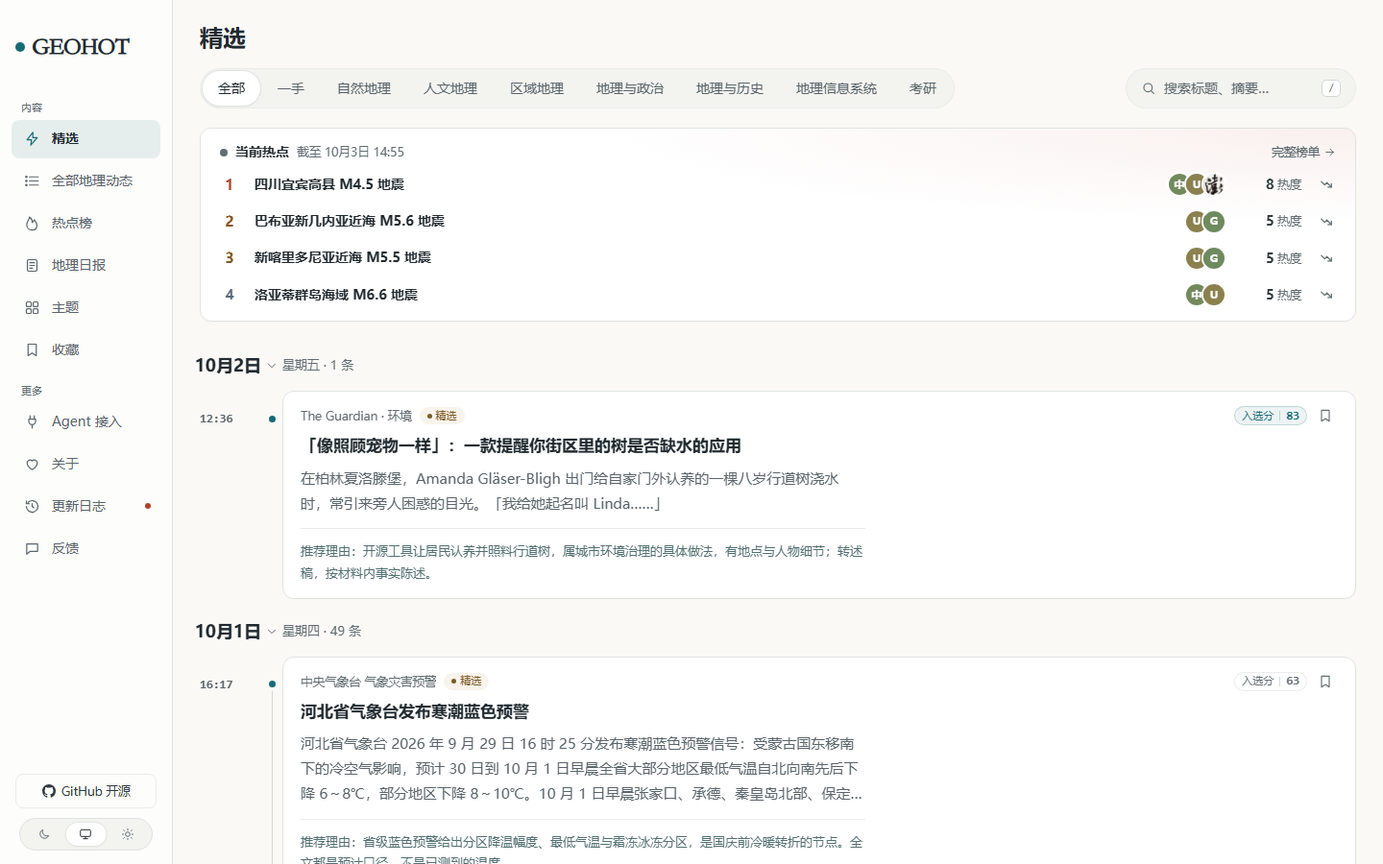
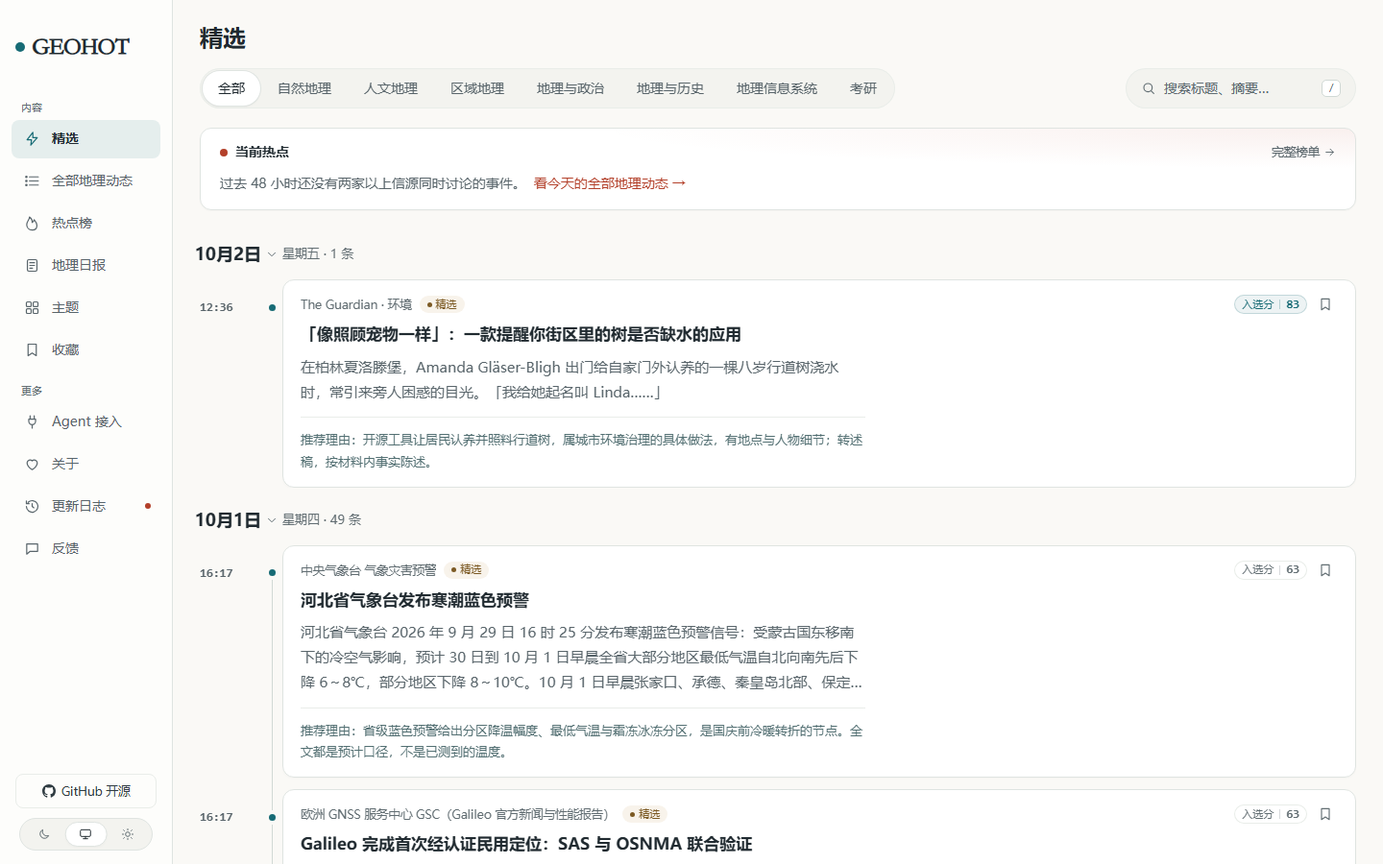
删掉筛选栏「一手」；信源 87 → 90；/hot 空态补出口；配图重拍

diff --git a/tests/channel-row.test.ts b/tests/channel-row.test.ts
@@ -1,0 +1,40 @@
+// The「一手」chip was removed from the filter row on 2026-10-04 晚 by the owner's request ("有点多余了").
+// What makes that removal worth a test at all is how little of it was visible: the chip, the enum key and the
+// SQL alias were three lines in three files, and both the chip list and the label table are derived — re-adding
+// one without the others either fails to compile (exhaustive `Record<ChannelKey, string>`) or brings back a
+// filter the owner asked to drop. The row must stay 全部 + the seven categories, and a link that still carries
+// `?channel=firstParty` must keep landing on the unfiltered list rather than a 400 or a half-lit row.
+import assert from "node:assert/strict";
+import { readFileSync } from "node:fs";
+import { test } from "node:test";
+import { CATEGORY_KEYS, CHANNEL_KEYS, CHANNEL_LABELS } from "@aihot/contracts/taxonomy";
+
+const read = (p: string) => readFileSync(new URL(p, import.meta.url), "utf8");
+const filters = read("../apps/web/app/features/feed/Filters.tsx");
+const home = read("../apps/web/app/routes/home.tsx");
+const all = read("../apps/web/app/routes/all.tsx");
+const timeline = read("../apps/web/app/features/feed/Timeline.tsx");
+const groupUrls = read("../apps/web/app/features/feed/group-urls.ts");
+
+test("筛选栏只有 全部 + 七个分类，chip 从 CATEGORY_KEYS 派生", () => {
+  // Comments here name the removed chip on purpose (that is how a reader learns why it is gone), so the
+  // assertions look at the chip list itself: a key or a label, not the word in prose.
+  assert.equal(/key:\s*"firstParty"|channel:\s*"firstParty"/.test(filters), false, "Filters.tsx 的 chip 清单里又出现了 firstParty：站长 2026-10-04 要求删掉「一手」那颗 chip，别把它加回来");
+  assert.equal(filters.includes('label: "一手"'), false, "Filters.tsx 里又挂出了「一手」这个标签");
+  assert.ok(filters.includes("...CATEGORY_KEYS.map("), "分类 chip 必须从 CATEGORY_KEYS 派生（手写清单就会漂）");
+  assert.equal(CATEGORY_KEYS.length, 7, `分类数变了（${CATEGORY_KEYS.length} 个）：筛选栏的断言与 README 的「八个格子」都要跟着改`);
+});
+
+test("一手不再是一个渠道 key，但老链接要把渠道兜底成 all", () => {
+  assert.equal((CHANNEL_KEYS as readonly string[]).includes("firstParty"), false, "firstParty 还在 CHANNEL_KEYS 里：它会让 isChannelKey 认出一个已经没人提供的渠道");
+  assert.equal(Object.keys(CHANNEL_LABELS).includes("firstParty"), false, "CHANNEL_LABELS 里还留着一手的标签");
+  // 兜底在两条路由上各写了一次：认不出的 channel 回落 all，而不是 400/404。
+  assert.match(home, /isChannelKey\(channelParam\) \? channelParam : "all"/, "home.tsx 的渠道兜底没了：老链接 ?channel=firstParty 会掉进未处理分支");
+  assert.match(all, /isChannelKey\(channelParam\) \? channelParam : "all"/, "all.tsx 的渠道兜底没了");
+});
+
+test("读者可见的链接与游标里不再生成 channel=firstParty", () => {
+  for (const [name, src] of [["Filters.tsx", filters], ["Timeline.tsx", timeline], ["group-urls.ts", groupUrls]] as const) {
+    assert.equal(/channel:\s*"firstParty"|set\("channel",\s*"firstParty"\)/.test(src), false, `${name} 里仍在拼一手渠道的参数`);
+  }
+});

diff --git a/apps/web/app/features/feed/Filters.tsx b/apps/web/app/features/feed/Filters.tsx
@@ -1,7 +1,7 @@
 // Feed filters: the channel and category row, and search.
 import { useEffect, useRef, useState } from "react";
 import { Form, Link, useNavigation, useSearchParams } from "react-router";
-import { CATEGORY_KEYS, CATEGORY_LABELS, CHANNEL_LABELS, type CategoryKey, type ChannelKey } from "@aihot/contracts/taxonomy";
+import { CATEGORY_KEYS, CATEGORY_LABELS, type CategoryKey, type ChannelKey } from "@aihot/contracts/taxonomy";
 import { IconClose, IconSearch } from "../../components/icons";
 import { PillTabs } from "../../components/ui/Tabs";
 import { publicPath } from "../../lib/public-path";
@@ -15,14 +15,19 @@ export function hrefWith(base: string, params: URLSearchParams, patch: Record<st
   }
   sp.delete("page");
   sp.delete("cursor");
+  // `search=1` is the one-shot flag that opens the phone's search field and focuses it (`all.tsx` reads it
+  // into `autoFocus`). A chip click is a new intent, not "open the keyboard again": carrying the flag made
+  // every category tap on a phone re-focus the search input and pop the keyboard (found in the browser pass).
+  sp.delete("search");
   const s = sp.toString();
   return s ? `${base}?${s}` : base;
 }
 
 /**
- * The feed's one filter row (精选 and 全部动态 alike): 全部, 一手, then the categories. One choice at a
- * time: picking 一手 clears the category and picking a category clears 一手. Older 资讯 / X links
- * still filter; the row then shows 全部.
+ * The feed's one filter row (精选 and 全部动态 alike): 全部, then the seven categories. One choice at a time.
+ * Older 资讯 / X links still filter; the row then shows 全部. The「一手」chip that used to sit between
+ * 全部 and the categories was removed on 2026-10-04 晚 by the owner's request — `firstParty` is gone from
+ * `CHANNEL_KEYS`, so a link still carrying it lands on the unfiltered list instead of a half-lit row.
  */
 export function CategoryTabs({ base, category, channel = "all", layoutId, size = "md", className = "" }: { base: string; category: CategoryKey | null; channel?: ChannelKey; layoutId: string; size?: "md" | "sm"; className?: string }) {
   const [params] = useSearchParams();
@@ -37,10 +42,11 @@ export function CategoryTabs({ base, category, channel = "all", layoutId, size =
   };
   const items = [
     { key: "all", label: "全部", ...at({ category: null, channel: null }) },
-    { key: "firstParty", label: CHANNEL_LABELS.firstParty, ...at({ category: null, channel: "firstParty" }) },
     ...CATEGORY_KEYS.map((k) => ({ key: k, label: CATEGORY_LABELS[k], ...at({ category: k, channel: null }) })),
   ];
-  const active = channel === "firstParty" ? "firstParty" : (category ?? "all");
+  // 全部 is the row's only neutral chip, so a legacy `?channel=news|x` link lights it while the list
+  // keeps filtering — the same "row cannot express this" case the removed 一手 chip used to cover.
+  const active = channel === "all" ? (category ?? "all") : "all";
   return <PillTabs items={items} active={active} layoutId={layoutId} label="筛选" size={size} className={className} />;
 }
 

diff --git a/packages/backend/src/publication/sitemap.ts b/packages/backend/src/publication/sitemap.ts
@@ -10,7 +10,7 @@ import { sql } from "../db.ts";
 import { cached } from "../lib/cache.ts";
 import { escapeXml } from "../lib/text.ts";
 import { siteUrl } from "./links.ts";
-import { releasedCondition, selectedCondition } from "./items.ts";
+import { CJK_TITLE_PATTERN, releasedCondition, selectedCondition } from "./items.ts";
 import { listReports } from "./reports.ts";
 import { leaderboardUrls } from "../leaderboard/read.ts";
 import { topicPageCounts } from "./topics.ts";
@@ -86,9 +86,12 @@ async function build(readAt = new Date()): Promise<string> {
     for (let p = 2; p <= t.pages; p++) entries.push({ loc: `/topics/${t.slug}/page/${p}`, lastmod: t.latest, changefreq: "weekly", priority: 0.3 });
   }
   // Stories with reports of their own; pages that only gather reports grouped elsewhere (imported story
-  // levels, regrouped history) are reachable but not listed.
+  // levels, regrouped history) are reachable but not listed. `title ~ CJK` narrows "listed" to what the site
+  // can hand a crawler in Chinese: 2026-10-04 晚 measured 474 English-only story pages, and the page gate for
+  // them was tried and reverted (see `events/story-reports.ts` and `docs/known-issues.md`) — a page may stay
+  // reachable, but this list is the one place that *promises* content to search engines.
   const stories = await sql<{ public_id: string; latest_at: Date | null }[]>`
-    SELECT public_id::text, latest_at FROM stories WHERE merged_into IS NULL AND EXISTS (
+    SELECT public_id::text, latest_at FROM stories WHERE merged_into IS NULL AND title ~ ${CJK_TITLE_PATTERN} AND EXISTS (
       SELECT 1 FROM facts f JOIN fact_articles fa ON fa.fact_id = f.id JOIN publications p ON p.article_id = fa.article_id
       WHERE f.story_id = stories.id AND fa.role IN ('primary', 'report') AND p.visibility = 'public' AND p.eligible)
     ORDER BY latest_at DESC NULLS LAST LIMIT 500`;

diff --git a/packages/backend/src/events/story-reports.ts b/packages/backend/src/events/story-reports.ts
@@ -14,9 +14,14 @@
 // past the release gate (one expression, `releasedCondition` in publication/items.ts — this file used to
 // retype it by hand, which is how a fourth reading of the same rule could appear). It deliberately does not
 // ask `p.eligible`: that is a snapshot of the pool rule taken when the row was published, so it also leaves
-// out reports the AI pool never rated — imported hot stories carry them, and the live pages showed them. No
-// Chinese-copy gate either: CJK decides whether an item is *listed* in a feed, not whether this page can open
-// it, which is what `rules.itemHasPage` already settled. Reports that mention this event from an article
+// out reports the AI pool never rated — imported hot stories carry them, and the live pages showed them.
+// **It does not ask for Chinese, and that is a decision, not an omission** (2026-10-04 晚: a gate was tried
+// and reverted the same evening). Measured then: 1374 public editorial reports and 474 event pages were
+// English-only. The site's copy rule keeps those out of every *list* — the feeds, the hot strip, the sitemap —
+// but it has never decided that their pages stop opening: `rules.itemHasPage` says a public released row has a
+// page, and `tests/publication.test.ts` pins that ("a story whose only page is unsummarised still has a page").
+// Gating here turned four such tests red, so the leak stays visible and is recorded in `docs/known-issues.md`
+// as an owner decision (404 the page, or keep it reachable-but-unlisted) instead of a silent change. Reports that mention this event from an article
 // about something else are included (an article's other events), and `hot_signal` material is heat evidence
 // only — its source does not take part editorially, so it is neither listed here nor shown on the page.
 import { sql } from "../db.ts";

diff --git a/apps/web/app/routes/hot.tsx b/apps/web/app/routes/hot.tsx
@@ -6,7 +6,7 @@ import { loadOr404 } from "../lib/api.server";
 import { pageMeta } from "../lib/seo";
 import { monthDayTime, shortSourceName } from "../lib/format";
 import { Badge } from "../components/ui/Badge";
-import { EmptyState } from "../components/ui/Page";
+import { EmptyState, MoreLink } from "../components/ui/Page";
 import { IconChevronDown, IconInfo } from "../components/icons";
 import { Sparkline } from "../features/hot/Sparkline";
 import { Faces } from "../features/hot/Faces";
@@ -260,7 +260,20 @@ export default function HotPage() {
 
       {!lead ? (
         <div className="card rounded-sheet">
-          <EmptyState title="暂时没有热点">还没有足够多来源共同讨论的事件。</EmptyState>
+          {/* An empty board is a state, not a dead end: the strip on the home page has always offered
+              「看今天的全部地理动态 →」, and this page — the one that strip links to — used to answer with
+              two sentences and zero links (found by a real-browser pass, 2026-10-04). */}
+          <EmptyState
+            title="暂时没有热点"
+            action={
+              <div className="flex flex-wrap items-center justify-center gap-x-5 gap-y-2">
+                <MoreLink to="/all">看今天的全部{withSubject("动态")}</MoreLink>
+                <MoreLink to="/daily">去最新一期{withSubject("日报")}</MoreLink>
+              </div>
+            }
+          >
+            还没有足够多来源共同讨论的事件。
+          </EmptyState>
         </div>
       ) : (
         <>

diff --git a/apps/web/app/routes/all.tsx b/apps/web/app/routes/all.tsx
@@ -34,7 +34,9 @@ export function meta({ loaderData }: Route.MetaArgs) {
   const q = f?.q;
   const page = loaderData?.data.page ?? 1;
   return pageMeta({
-    title: q ? `搜索：${q}` : `全部${withSubject("动态")}`,
+    // The <h1> says `#tag` when a tag filtered the list (line 74); the tab title did not, so a tag page
+    // announced itself as 「全部地理动态」 to tabs and search engines alike (real-browser pass, 2026-10-04).
+    title: q ? `搜索“${q}”` : f?.tag ? `#${f.tag}` : `全部${withSubject("动态")}`,
     description: `${SITE.name} 收录的全部${withSubject("动态")}，可按类别与标签筛选，支持中英文搜索。`,
     path: listPath("/all", { channel: f && f.channel !== "all" ? f.channel : null, category: f?.category, tag: f?.tag, q, tab: f?.tab === "relevance" ? "relevance" : null, page: page > 1 ? page : null }),
     image: "/og/pages/all.png",
@@ -63,7 +65,7 @@ export default function AllPage() {
   const navigation = useNavigation();
   const f = data.filters;
   const busy = navigation.state === "loading" && navigation.location?.pathname === "/all";
-  const keep = { channel: f.channel === "all" ? null : f.channel, category: f.category };
+  const keep = { channel: f.channel === "all" ? null : f.channel, category: f.category, tag: f.tag };
   const searchTabHref = (tab: "time" | "relevance") => {
     const sp = new URLSearchParams(params);
     sp.delete("page");

diff --git a/packages/backend/src/publication/groups.ts b/packages/backend/src/publication/groups.ts
@@ -6,7 +6,7 @@ import { sql } from "../db.ts";
 import { decodeCursor, encodeCursor, InvalidCursorError, queryBinding } from "../lib/cursor.ts";
 import { shortHash } from "../lib/ids.ts";
 import { proxiedImage } from "../media/imgproxy.ts";
-import { ITEM_COLUMNS, ITEM_FROM, categoryCondition, channelCondition, releasedCondition, selectedCondition, tagCondition, toItemSummary, topicCondition, type ItemRow } from "./items.ts";
+import { ITEM_COLUMNS, ITEM_FROM, categoryCondition, channelCondition, chineseCopyCondition, releasedCondition, selectedCondition, tagCondition, toItemSummary, topicCondition, type ItemRow } from "./items.ts";
 import { pickRepresentative } from "./timeline.ts";
 
 export interface GroupReportsQuery {
@@ -40,7 +40,7 @@ export async function loadGroupReports(q: GroupReportsQuery, now = new Date()): 
            s.id AS source_id, s.name AS source_name, s.kind AS source_kind, p.first_party, s.icon_url
     FROM publications p JOIN sources s ON s.id = p.source_id
     WHERE p.article_id IN (SELECT article_id FROM fact_articles WHERE fact_id = ${fact.id}) AND p.visibility = 'public' AND p.eligible
-      AND ${releasedCondition(now)} ${filters}
+      AND ${releasedCondition(now)} AND ${chineseCopyCondition()} ${filters}
     ORDER BY p.timeline_at DESC, p.article_id ASC`;
   if (members.length === 0) return { kind: "not_found" };
 

diff --git a/packages/contracts/src/taxonomy.ts b/packages/contracts/src/taxonomy.ts
@@ -20,14 +20,18 @@ export function isCategoryKey(value: unknown): value is CategoryKey {
   return typeof value === "string" && (CATEGORY_KEYS as readonly string[]).includes(value);
 }
 
-export const CHANNEL_KEYS = ["all", "news", "x", "firstParty"] as const;
+export const CHANNEL_KEYS = ["all", "news", "x"] as const;
 export type ChannelKey = (typeof CHANNEL_KEYS)[number];
 
+// `firstParty` was a channel key until 2026-10-04 晚: the owner asked for the「一手」chip to go ("有点多余了"),
+// and the row now renders 全部 + the seven categories only. The key is deliberately *removed* rather than just
+// hidden: the filter row derives its chips from this list, and a key nothing offers is a key nothing can be
+// tested against. Old links carrying `?channel=firstParty` land on the unfiltered list (the routes coerce an
+// unrecognised channel to "all", `isChannelKey` above) — those pages stay reachable, they just stop filtering.
 export const CHANNEL_LABELS: Record<ChannelKey, string> = {
   all: "全部",
   news: "资讯",
   x: "X",
-  firstParty: "一手",
 };
 
 export function isChannelKey(value: unknown): value is ChannelKey {

diff --git a/apps/web/app/routes/leaderboard.tsx b/apps/web/app/routes/leaderboard.tsx
@@ -25,7 +25,7 @@ export function meta({ loaderData }: Route.MetaArgs) {
   return pageMeta({
     title: board.title,
     rawTitle: true,
-    description: board.key === "overall" ? "汇总多家公开模型评测榜单，给出${SITE.name} 共识分、评测完整度、上线日期与 API 参考价格。" : board.description,
+    description: board.key === "overall" ? `汇总多家公开模型评测榜单，给出${SITE.name} 共识分、评测完整度、上线日期与 API 参考价格。` : board.description,
     path,
     image: "/og/pages/leaderboard.png",
     jsonLd: [

diff --git a/packages/backend/src/publication/items.ts b/packages/backend/src/publication/items.ts
@@ -118,7 +118,6 @@ export function selectedCondition(now: Date) {
 
 export function channelCondition(channel: ChannelKey | null | undefined) {
   if (!channel || channel === "all") return sql``;
-  if (channel === "firstParty") return sql`AND p.first_party`;
   return sql`AND p.channel = ${channel}`;
 }
 

diff --git a/README.md b/README.md
@@ -31,7 +31,7 @@
 
 <br>
 
-> 这一页是介绍页。**操作手册**（本机跑法、端口对照、检查命令、已知边界、上线前清单）在 [`docs/manual.md`](docs/manual.md)——它就是这棵树原来的 README，内容一字未删地搬了过去。日常运营读 [`docs/geohot-runbook.md`](docs/geohot-runbook.md)，精选与校准读 [`docs/selection.md`](docs/selection.md)，换行业读 [`docs/customize.md`](docs/customize.md)，信源怎么配读 [`docs/sources.md`](docs/sources.md)，部署读 [`docs/deploy.md`](docs/deploy.md)，**换域名或换服务器**读 [`docs/migration.md`](docs/migration.md)，进程与目录读 [`docs/architecture.md`](docs/architecture.md)。这份清单里只有 `README.md`、`docs/manual.md`、`docs/geohot-runbook.md`、`docs/migration.md` 与 `docs/known-issues.md`（下面引用了它四次的那份待办清单，按轮次追记）是本站写的，其余（`customize/selection/sources/architecture/leaderboard/deploy`）都还是上游参考文档，若干命令与数字在本站不成立——**哪份文档该打折、逐条打到什么程度，看 [`docs/manual.md` 第 9 节那张"文档 × 状态"表](docs/manual.md)**（那张表是本仓库的反腐烂装置：它按文档逐条写明哪些说法已经不成立、哪些只是抄录）。
+> 这一页是介绍页。**操作手册**（本机跑法、端口对照、检查命令、已知边界、上线前清单）在 [`docs/manual.md`](docs/manual.md)——它就是这棵树原来的 README，内容一字未删地搬了过去。日常运营读 [`docs/geohot-runbook.md`](docs/geohot-runbook.md)，精选与校准读 [`docs/selection.md`](docs/selection.md)，换行业读 [`docs/customize.md`](docs/customize.md)，信源怎么配读 [`docs/sources.md`](docs/sources.md)，部署读 [`docs/deploy.md`](docs/deploy.md)，**换域名或换服务器**读 [`docs/migration.md`](docs/migration.md)，进程与目录读 [`docs/architecture.md`](docs/architecture.md)。这份清单里只有 `README.md`、`docs/manual.md`、`docs/geohot-runbook.md`、`docs/migration.md` 与 `docs/known-issues.md`（那份按轮次追记的待办清单，下面多次引用）是本站写的，其余（`customize/selection/sources/architecture/leaderboard/deploy`）都还是上游参考文档，若干命令与数字在本站不成立——**哪份文档该打折、逐条打到什么程度，看 [`docs/manual.md` 第 9 节那张"文档 × 状态"表](docs/manual.md)**（那张表是本仓库的反腐烂装置：它按文档逐条写明哪些说法已经不成立、哪些只是抄录）。
 
 </div>
 
@@ -41,7 +41,7 @@
   <img src="docs/shots/home-light.png" alt="首页精选：顶部是「当前热点」四条（名次、标题、信源头像、热度与走势），左侧导航，筛选栏含七个分类，下面是按日期分组的精选卡片" width="100%">
 </p>
 
-▲ 首页「精选」· 截图摄于 **2026-10-04 14:07（+0800）**，路由 `/geohot/`，视口 1440×900，浅色主题 · 画面顶部那一块是**当前热点**：四条事件按热度排开，每行是名次、标题、正在讨论它的信源头像（精选组，最多三枚 +N）、热度数值与走势箭头，右上角「完整榜单」进 `/hot`。标题旁边写着 **截至 10月3日 14:55**——这一张榜不是这一小时的。热榜每 5 分钟重算一次，某一轮算出空榜时不再把首页抹掉：`packages/backend/src/events/hot.ts` 只在有事件时把那一张发布出去，读侧 `packages/backend/src/events/hot-read.ts` 于是回落到最近一张有事件的榜（最长 24 小时），其中事件已被归并到别处的条目先掉出榜、名次接着排。榜不老于两小时时这里不写时刻，只有一颗跳动的红点。**如果打开首页看到的是另一行字**——「过去 48 小时还没有两家以上信源同时讨论的事件。」加一个 `/all` 入口——那不是故障，是这张榜已经老过一天，页面改说实话；两种样子的取舍写在 `apps/web/app/features/feed/HotTopics.tsx` 顶部的注释里。侧栏**没有**「板块」那一格：那一层 2026-10-04 整块删除，`/geohot/boards` 现在返回 404。时间线是 10月2日 1 条、10月1日 49 条，第一条是 The Guardian·环境、入选分 83 的《「像照顾宠物一样」：一款提醒你街区里的树是否缺水的应用》。筛选栏 **9 格**：`全部`、`一手`，加**七个分类**，末尾两格是「地理信息系统」「考研」——2026-10-03 把这两格换位、并删掉了「野外与考察」与「观点与解读」。（这一张图的上一版说明把"画面里没有当前热点条"归因于"热点榜是空的"，那时真正的原因是旧代码在榜少于 3 条时把整块隐藏——归因错了，错记留在 `docs/known-issues.md`，不抹掉。）**这一屏每天在变，线上地址才是事实来源**：`https://xxc2007.me/geohot/`。
+▲ 首页「精选」· 截图摄于 **2026-10-04 22:08（+0800）**，路由 `/geohot/`，视口 1440×900，浅色主题 · 画面顶部那一块是**当前热点**：四条事件按热度排开，每行是名次、标题、正在讨论它的信源头像（精选组，最多三枚 +N）、热度数值与走势箭头，右上角「完整榜单」进 `/hot`。标题旁边写着 **截至 10月3日 14:55**——这一张榜不是这一小时的。热榜每 5 分钟重算一次，某一轮算出空榜时不再把首页抹掉：`packages/backend/src/events/hot.ts` 只在有事件时把那一张发布出去，读侧 `packages/backend/src/events/hot-read.ts` 于是回落到最近一张有事件的榜（最长 24 小时），其中事件已被归并到别处的条目先掉出榜、名次接着排。榜不老于两小时时这里不写时刻，只有一颗跳动的红点。**如果打开首页看到的是另一行字**——「过去 48 小时还没有两家以上信源同时讨论的事件。」加一个 `/all` 入口——那不是故障，是这张榜已经老过一天，页面改说实话；两种样子的取舍写在 `apps/web/app/features/feed/HotTopics.tsx` 顶部的注释里。侧栏**没有**「板块」那一格：那一层 2026-10-04 整块删除，`/geohot/boards` 现在返回 404。时间线是 10月2日 1 条、10月1日 49 条，第一条是 The Guardian·环境、入选分 83 的《「像照顾宠物一样」：一款提醒你街区里的树是否缺水的应用》。筛选栏 **8 格**：`全部` 加**七个分类**，末尾两格是「地理信息系统」「考研」——2026-10-03 把这两格换位、并删掉了「野外与考察」与「观点与解读」；2026-10-04 晚又删掉 `一手` 那一格（它是 `first_party` 数据字段的渠道别名，和「全部 + 分类」这一行做的是同一件事；`first_party` 字段本身照旧在评分、日报「件一手发布」与事件页「官方一手」里用着）。（这一张图的上一版说明把"画面里没有当前热点条"归因于"热点榜是空的"，那时真正的原因是旧代码在榜少于 3 条时把整块隐藏——归因错了，错记留在 `docs/known-issues.md`，不抹掉。）**这一屏每天在变，线上地址才是事实来源**：`https://xxc2007.me/geohot/`。
 
 ---
 
@@ -63,7 +63,7 @@
 
 > 2026-10-03 一天里改了两次，都是站长看首页筛选栏提出的。**先是合并**：「地理信息技术」与「地理信息系统」并成一个区域，名字用「地理信息系统」，分类 `key` 保留 `geotech`——它已经在网址与库里，词表头部写着上线后不可改；另一个 key `gis` 只活了几个小时，名下的行由迁移 `0040` 并到 `geotech`。**接着是删两个分类**：`fieldwork` 野外与考察、`comment` 观点与解读**彻底删掉**，不是改名也不是隐藏——筛选栏、卡片角标、日报分节、RSS 分类订阅、公开 API 与 MCP 的枚举、提示词里的分类清单一起消失。这两个 key 名下的行（线上 21 行，其中精选 8 条）由迁移 `0041` 逐条改归到剩下的五个学科分类，`selectbench_results` 那张基准表**不动**——它是历史模型的答题存档，改写等于伪造记录。
 >
-> 删掉的两个分类原本共用日报的第三节「实践」。**这一节的消失有个不显眼的后果**：日报的分节表是从分类数组里 `section` 字段的**首现顺序**推导的，而「没有类别的资料」的兜底分节取的是末位那一节。`section` 从「学科 / 技术 / 实践」变成「学科 / 技术」，兜底分节因此从「实践」挪到「技术」。这不是可以随手改的装饰——给新分类起第三个节名，全站没有类别的资料会在下一次成刊时一夜之间搬进那一节。这条不变量由 `tests/report-default-section.test.ts` 与 `tests/exit-category-parity.test.ts` 两处钉住。
+> 删掉的两个分类原本共用日报的第三节「实践」。**兜底分节从那一节挪到了「未归类」**：没有类别的资料进日报时落在 `DEFAULT_SECTION` 这一节，它是 `packages/backend/src/reports/compose.ts:26` 的一个显式常量（`:28` 的 `REPORT_SECTIONS = [...SECTION_ORDER, DEFAULT_SECTION]`），不是"分类数组的末位"——早先的版本按末位推导，删一次分类就会把全站没归类的资料整体搬到别的一节去。这条不变量由 `tests/report-default-section.test.ts` 与 `tests/exit-category-parity.test.ts` 两处钉住。
 
 **没有单独的「板块」页。** 这一层曾经存在过：2026-10-03 上线的四个跨类别方向页（`/boards`：地理信息系统 / 考研 / 地理与政治 / 地理与历史，当时与筛选栏同序）在 **2026-10-04 按站长要求整块删掉**——站长看着那一页说「这个板块功能有点重复了」，它按学科与用途把条目归到一处（页面文案当时写的是"当天"，而它其实不设时间窗——按时间倒序取最近的若干条），而主题页与筛选栏的分类已经在做同一件事。现在 `/boards` 与 `/boards/<slug>` 都是 404。四个方向**没有丢入口**：它们本来就是首页筛选栏里的四个分类（`/all?category=geotech` / `geoedu` / `geopolitics` / `histgeo`），未精选的信源原文在「全部动态」里同样列得出来；主题页（`/topics`）继续按区域、机构与领域串联同一件事的来龙去脉。**删的只是视图**——条目、`category` 字段、分类词表与公开门槛一行都没动，`industry/sources.json` 里那 41 条 `defaultCategory` 照旧把条目归到它所属的分类。
 
@@ -106,7 +106,7 @@
 
 精选按分类的**分布不在这里抄**——那是线上每天在变的量（上一版抄的"53 条：自然地理 28 · 区域地理 12 · 人文地理 6 · 地理信息系统 5 + 2 条无分类"恰好在 2026-10-04 13:35 又对了回来，但那是巧合不是维护，靠抄录追一个会动的数是追不住的）。现查：`curl -s "https://xxc2007.me/geohot/api/v1/selected/snapshot?limit=200"` 按 `items[].category` 数一遍，它应与 `/api/site/stats` 的 `selected` 相等（2026-10-04 实测两边都是 53；不一致就是出口之间又裂开了，见下面「站点结构」那一节讲的同一份门槛）。**删掉的两类名下的行没有消失**，是按内容逐条改归到剩下的分类里——迁移 `0041` 的映射表把每条都写明了理由，不是一刀切进某个桶；`fieldwork` 与 `comment` 这两个 key 现在库里一行都不剩（`SELECT category, count(*) FROM publications GROUP BY category` 可查，本机开发库实测只剩**六个** key 与 NULL——七个分类里的 `geoedu` 在库里一行都没有，`GROUP BY` 不会把零行的那一档列出来，所以"七个 key"是数词表不是数查询结果）。
 
-**信源数量的唯一说法在这里**（其余文档一律指向本段，别再抄一份数字）：登记在 [`industry/sources.json`](industry/sources.json) 的是 **87 条**（`node -e "console.log(require('./industry/sources.json').sources.length)"` 当场可数；2026-10-04 下午从 85 加到 87——中新网·即时新闻与 BBC 中文（简体），两家都是在采集那台机器上用采集器自己的 UA 实测过、第一次抓取各入库 30 条才算数。同一批还试过人民网·时政/国际/科技三个 RSS，**又退回了**：feed 本身活着（200、`text/xml`、各 100 个 `<item>`），可里面最新一条分别是 2025-06-03 / 2025-06-04 / 2021-02-01——那是一个不再更新的快照，"200 加 100 条"骗过了探测，是第一次抓取入库 0 条才把它暴露出来），本机库里 `sources` 表是 **88 行**——多出的那一行是投递接口在运维校验时自动建的 `external` 占位源 `ext-opscheck-ingest-probe`（站上不可见，清理 SQL 在 `scripts/README-ingest.md` 末尾），所以顶上那枚徽标写「87+1」。这 87 条里 **79 条真在轮询**（53 `rss` + 23 `web_list` + 3 `json_list`）、**8 条 `external`** 是给人工投递预留的通道（`participation_mode=isolated`，站上暂不可见）。轮询那 79 条按分级是 `T1` 46 / `T1_5` 14 / `T2` 19，按语种是中文 26 / 英文 53，其中 **50 条标了 `first_party`**（自己就是发布方，不是转述别家），中文一手层 20 条。可轮询的来源横跨中英两种语言与机构、媒体、期刊、软件发布四类：国际机构（USGS、NASA Science、NOAA、GDACS、UN OCHA、Copernicus、WMO、ESA）× 国际媒体与智库（The Diplomat、World Politics Review、Foreign Affairs、Crisis Group、对话地球、The Conversation）× 软件与标准（OGC、QGIS releases）× 历史与地图（国会图书馆地图部、Public Domain Review、欧洲环境史学会）× 国内部委与科研院所 20 条（中国地震台网中心、中央气象台、国家气候中心、国家统计局、自然资源部、中国地质调查局、生态环境部、国家林业和草原局、中国地震局、应急管理部、水利部本部及黄河/长江水利委员会、中科院地理科学与资源研究所两条、中国极地研究中心、澎湃新闻、《地理研究》当期目录等）。本站没有任何 `x_search`/`mp_account`/按次计费的信源（现值 0 条），采集不产生账单。**87 条里 43 条声明了 `defaultCategory`**，把条目直接归到它所属的分类（见上）；其余按模型/人工判断归类。
+**信源数量的唯一说法在这里**（其余文档一律指向本段，别再抄一份数字）：登记在 [`industry/sources.json`](industry/sources.json) 的是 **90 条**（`node -e "console.log(require('./industry/sources.json').sources.length)"` 当场可数；2026-10-04 下午从 85 加到 87——中新网·即时新闻与 BBC 中文（简体），两家都是在采集那台机器上用采集器自己的 UA 实测过、第一次抓取各入库 30 条才算数。当晚又从 87 加到 90，三条都是中文 `web_list`：**教育部·新闻发布**（分类「考研」，那一类此前只有一条源）、**中国科技网（科技日报）要闻**、**国家发展改革委·新闻动态**——每条都在部署后用 `scripts/collect.ts` 在生产库真抓过（首次入库 15 / 15 / 20 条）。同一批试过的**地理学报·当期目录**又退回了：本机能抓（15 条）、**采集器那台机器两次都 `fetch failed`**，接不进生产就不是信源；它原先的人工投递通道（`ext-acta-geographica-toc`）原样留着。同一批还试过人民网·时政/国际/科技三个 RSS，**又退回了**：feed 本身活着（200、`text/xml`、各 100 个 `<item>`），可里面最新一条分别是 2025-06-03 / 2025-06-04 / 2021-02-01——那是一个不再更新的快照，"200 加 100 条"骗过了探测，是第一次抓取入库 0 条才把它暴露出来），本机库里 `sources` 表是 **91 行**——多出的那一行是投递接口在运维校验时自动建的 `external` 占位源 `ext-opscheck-ingest-probe`（站上不可见，清理 SQL 在 `scripts/README-ingest.md` 末尾），所以顶上那枚徽标写「90+1」。这 90 条里 **82 条真在轮询**（53 `rss` + 26 `web_list` + 3 `json_list`）、**8 条 `external`** 是给人工投递预留的通道（`participation_mode=isolated`，站上暂不可见）。轮询那 82 条按分级是 `T1` 48 / `T1_5` 15 / `T2` 19，按语种是中文 29 / 英文 53，其中 **53 条标了 `first_party`**（自己就是发布方，不是转述别家），中文一手层 23 条。可轮询的来源横跨中英两种语言与机构、媒体、期刊、软件发布四类：国际机构（USGS、NASA Science、NOAA、GDACS、UN OCHA、Copernicus、WMO、ESA）× 国际媒体与智库（The Diplomat、World Politics Review、Foreign Affairs、Crisis Group、对话地球、The Conversation）× 软件与标准（OGC、QGIS releases）× 历史与地图（国会图书馆地图部、Public Domain Review、欧洲环境史学会）× 国内部委与科研院所 20 条（中国地震台网中心、中央气象台、国家气候中心、国家统计局、自然资源部、中国地质调查局、生态环境部、国家林业和草原局、中国地震局、应急管理部、水利部本部及黄河/长江水利委员会、中科院地理科学与资源研究所两条、中国极地研究中心、澎湃新闻、《地理研究》当期目录等）。本站没有任何 `x_search`/`mp_account`/按次计费的信源（现值 0 条），采集不产生账单。**90 条里 46 条声明了 `defaultCategory`**，把条目直接归到它所属的分类（见上）；其余按模型/人工判断归类。
 
 **已部署**：[`xxc2007.me/geohot/`](https://xxc2007.me/geohot/)（2026-10-01）。四个常驻单元只监听回环、各自带内存上限，装在同一台跑着主站与 Artalk 的机器上，主站首页逐字节未变（`51432` 字节 / `4edf0fc53636a680…`，2026-10-03 又用 `curl -s https://xxc2007.me/ | wc -c` 与 `sha256sum` 复核过一遍）。怎么装的、验证命令、以及部署时踩过的坑（那张「症状 → 真正原因」表），都在 [`deploy/geohot/DEPLOYMENT.md`](deploy/geohot/DEPLOYMENT.md)。**日报已出刊**：`/daily` 给的是**最新一期**（这一句不写期号与日期，每天 08:00 它都会变），下面那张图拍的是 **2026-10-03 第 2 期**（`/daily/2026-10-03`，与那张图自己的说明同一期——上一版这里写成"2026-10-02 第 1 期"，与图说明对不上，同一张图给了两期）。另一期 `/daily/2026-10-02` 是 2026-10-02 第 1 期，线上现查的报眼五个指标是 **21 件大事、14 个来源、12 件一手发布、5 项技术与数据发布、约 9 分钟读完**（2026-10-04 实测 `curl -s https://xxc2007.me/geohot/daily/2026-10-02` 去标签即得；上一版这里写的"约 10 分钟"是错的，还漏了"技术与数据发布"那一格）——这些数字属于那一期，不属于"今天"。上线首日（10-01）`/daily` 确实是诚实的空态——worker 在当天 08:00 档期之后才起，那份日报本来就属于第二天，原因与空刊怎么被读取层过滤，写在 [`docs/known-issues.md`](docs/known-issues.md)。
 
@@ -116,12 +116,12 @@
   <img src="docs/shots/hot-light.png" alt="地理热点榜满榜的样子：NO.01 大卡带事件正文、最新进展与热度指数，右侧两张小卡各带 24 小时走势，页头同一行写着「过去 48 小时，讨论最多的 4 个地理事件」与更新时间" width="100%">
 </p>
 
-▲ 热点榜 `/hot` · 截图摄于 **2026-10-04 14:07（+0800）**，路由 `/geohot/hot`，视口 1440×900，浅色主题 · 画面里是**满榜**的样子：页头「过去 48 小时，讨论最多的 4 个地理事件」，同一行右边写着 **10月3日 14:55 更新 · 按讨论热度排序**——这一张榜不是这一小时算的，那行时刻就是它的截止时间（读侧最长保留 24 小时，超过就换成空态，与首页那张是同一张榜）。NO.01 是四川宜宾高县 M4.5 地震：三方测定读数不齐的正文、一行「最新进展」、「中国地震台网中心 CENC 地震速报目录、USGS 全球地震目录 M4.5+（近一周）等 3 个来源 · 3 位参与者」、热度指数 8 与 ↓15%；NO.02、NO.03 两张小卡各带 24 小时走势（2 个来源 · 2 位参与者），「继续看 No.04–04」下面是第 4 条洛亚蒂群岛海域 M6.6 地震，页脚有「热度是怎么算的？」入口。**热度门槛**：48 小时窗口内至少两个独立参与方、其中至少一家是编辑类信源（四个参数写在 `packages/backend/src/events/hot.ts`），达不到就是空榜。2026-10-03 上线当晚线上实测：窗口内 2639 个事件只有 24 个参与方，几乎每条预警各自成一个单来源事件；往前 48–96 小时那个窗口里有 6 个合格事件，所以榜更早的时候是满的（原始记录在 [`docs/known-issues.md`](docs/known-issues.md) 第八轮第 5 条）。**别拿本机复现那些数**：本机开发库的收录材料比线上少一半以上，按同一窗口口径复算对不上属正常。榜单每 5 分钟重排，**这一屏以线上为准**：`https://xxc2007.me/geohot/hot`（或 `GET /api/v1/hot-topics`）。
+▲ 热点榜 `/hot` · 截图摄于 **2026-10-04 22:08（+0800）**，路由 `/geohot/hot`，视口 1440×900，浅色主题 · 画面里是**满榜**的样子：页头「过去 48 小时，讨论最多的 4 个地理事件」，同一行右边写着 **10月3日 14:55 更新 · 按讨论热度排序**——这一张榜不是这一小时算的，那行时刻就是它的截止时间（读侧最长保留 24 小时，超过就换成空态，与首页那张是同一张榜）。NO.01 是四川宜宾高县 M4.5 地震：三方测定读数不齐的正文、一行「最新进展」、「中国地震台网中心 CENC 地震速报目录、USGS 全球地震目录 M4.5+（近一周）等 3 个来源 · 3 位参与者」、热度指数 8 与 ↓15%；NO.02、NO.03 两张小卡各带 24 小时走势（2 个来源 · 2 位参与者），「继续看 No.04–04」下面是第 4 条洛亚蒂群岛海域 M6.6 地震，页脚有「热度是怎么算的？」入口。**热度门槛**：48 小时窗口内至少两个独立参与方、其中至少一家是编辑类信源（四个参数写在 `packages/backend/src/events/hot.ts`），达不到就是空榜。2026-10-03 上线当晚线上实测：窗口内 2639 个事件只有 24 个参与方，几乎每条预警各自成一个单来源事件；往前 48–96 小时那个窗口里有 6 个合格事件，所以榜更早的时候是满的（原始记录在 [`docs/known-issues.md`](docs/known-issues.md) 第八轮第 5 条）。**别拿本机复现那些数**：本机开发库的收录材料比线上少一半以上，按同一窗口口径复算对不上属正常。榜单每 5 分钟重排，**这一屏以线上为准**：`https://xxc2007.me/geohot/hot`（或 `GET /api/v1/hot-topics`）。
 <p align="center">
   <img src="docs/shots/daily-light.png" alt="地理日报头版（2026-10-03 第 2 期）：报头字、期号卡、导读与分节正文" width="100%">
 </p>
 
-▲ `/daily` · 截图摄于 **2026-10-04 14:07（+0800）**，视口 1440×900，浅色主题；拍的是**那一刻的最新一期**（`/daily` 每天都换，这一版是 **2026-10-03 第 2 期**，固定地址 `/daily/2026-10-03`，左侧「往期」里 10月3日 高亮）。这一期 **1 件大事、1 个来源、0 件一手发布，约 1 分钟读完**，头条是《「像照顾宠物一样」：一款提醒你街区里的树是否缺水的应用》，本期版面只有一节：**实践**，1 件——这一节是 2026-10-03 删除两个分类之前成的刊，日报分节名是**写死的历史快照**，不随词表回改（这一期唯一那条资料在库里没有分类，旧词表下按兜底分节落进「实践」；新刊不会再出现这一节）。顺便说清一件事，**并且写清是哪一边的库**：线上那期 **10-04 的日报确实生成了，但一个分节都没有**，读取层会跳过没有内容的期，所以当天 `/daily` 回落到 10-03。这一条当场可查：`curl -s -o /dev/null -w '%{http_code}' https://xxc2007.me/geohot/daily/2026-10-04` → **200**，页面上写着「本期没有入选内容」（指名一期空刊给 200 的空态而不是 404，是既有决定，记在 [`docs/known-issues.md`](docs/known-issues.md)），而 `/api/site/stats` 的 `dailies` 是 10、`GET /api/v1/dailies` 只列 2 期——差的就被这道过滤挡着。**本机库不是这样**：那里到 10-03 为止只有 4 份日报，没有 10-04 这一行（`SELECT key, jsonb_array_length(content->'sections') FROM reports WHERE kind='daily'` → 3/1/1/1）。报头字「地理日报」是本站自己生成的 SVG（`scripts/nameplates.ts` 按 `SITE.subject` 出图）。这张图的侧栏与首页那张一样，已经没有「板块」那一格（那一层 2026-10-04 整块删除）。**最新一期每天都换，线上才是事实来源**：`https://xxc2007.me/geohot/daily`。
+▲ `/daily` · 截图摄于 **2026-10-04 22:08（+0800）**，视口 1440×900，浅色主题；拍的是**那一刻的最新一期**（`/daily` 每天都换，这一版是 **2026-10-03 第 2 期**，固定地址 `/daily/2026-10-03`，左侧「往期」里 10月3日 高亮）。这一期 **1 件大事、1 个来源、0 件一手发布，约 1 分钟读完**，头条是《「像照顾宠物一样」：一款提醒你街区里的树是否缺水的应用》，本期版面只有一节：**实践**，1 件——这一节是 2026-10-03 删除两个分类之前成的刊，日报分节名是**写死的历史快照**，不随词表回改（这一期唯一那条资料在库里没有分类，旧词表下按兜底分节落进「实践」；新刊不会再出现这一节）。顺便说清一件事，**并且写清是哪一边的库**：线上那期 **10-04 的日报确实生成了，但一个分节都没有**，读取层会跳过没有内容的期，所以当天 `/daily` 回落到 10-03。这一条当场可查：`curl -s -o /dev/null -w '%{http_code}' https://xxc2007.me/geohot/daily/2026-10-04` → **200**，页面上写着「本期没有入选内容」（指名一期空刊给 200 的空态而不是 404，是既有决定，记在 [`docs/known-issues.md`](docs/known-issues.md)），而 `/api/site/stats` 的 `dailies` 是 10、`GET /api/v1/dailies` 只列 2 期——差的就被这道过滤挡着。**本机库不是这样**：那里到 10-03 为止只有 4 份日报，没有 10-04 这一行（`SELECT key, jsonb_array_length(content->'sections') FROM reports WHERE kind='daily'` → 3/1/1/1）。报头字「地理日报」是本站自己生成的 SVG（`scripts/nameplates.ts` 按 `SITE.subject` 出图）。这张图的侧栏与首页那张一样，已经没有「板块」那一格（那一层 2026-10-04 整块删除）。**最新一期每天都换，线上才是事实来源**：`https://xxc2007.me/geohot/daily`。
 ## 🗂 站点结构
 
 读者侧真正服务的路由（核对自 `apps/web/app/routes.ts`）：
@@ -250,7 +250,7 @@ mkdir -p .github/workflows && cp tooling/ci-check.yml .github/workflows/check.ym
 
 两点必须说明白：上游 `NOTICE` 写明 **"The name "AIHOT" and the AIHOT logo are not licensed under the MIT License"**，所以本站不复用它的名字与 Logo，只用文字声明衍生关系，这也不意味着上游认可或背书本站。第三方素材各自受自己的条款约束：`assets/og-fonts/`（Noto Sans SC，SIL OFL 1.1）、`assets/model-providers/` 与 `assets/leaderboard-sources/`（机构与评测方标识，只被本站已关闭的两个模块引用，商标归各自所有者）——`NOTICE` 不替你授权这些。`industry/sources.json` 里是各发布方的公开 feed，内容版权归他们，本站默认只显示摘要加原文链接（`site_fulltext` 对每个源都关着）。
 
-顺带一句：根 `package.json` 的 `name` 仍是 `aihot` 且 `"private": true`，工作区包名 `@aihot/*`、目录名 `industry/`、浏览器存储键 `aihot-*` 都是代码内部标识，不对读者显示；改名要动的量级是**当场可数**的：`grep -rho "@aihot/[a-z-]*" --include=*.ts --include=*.tsx apps packages industry tests scripts tooling | wc -l` 给说明符处数，同一口径把 `-o` 换成 `-l` 给文件数（**这两个数每加一个测试文件就变，所以这里不抄死**——上一版抄的 635/218 在本轮加完四个测试文件后当场复算就成了 646/222，正是本段决定不再抄数的原因），另有 `package.json` 的脚本名、`Dockerfile:21`、`docker-compose.yml` 与 `apps/web/package.json` 里写死的包名——本站决定不改（`NOTICE` 里那句 "more than 100 imports" 严格为真但低报了一个数量级，数以命令为准）。
+顺带一句：根 `package.json` 的 `name` 仍是 `aihot` 且 `"private": true`，工作区包名 `@aihot/*`、目录名 `industry/`、浏览器存储键 `aihot-*` 都是代码内部标识，不对读者显示；改名要动的量级是**当场可数**的：`grep -rho "@aihot/[a-z-]*" --include=*.ts --include=*.tsx apps packages industry tests scripts tooling | wc -l` 给说明符处数，同一口径把 `-o` 换成 `-l` 给文件数（**这两个数每加一个测试文件就变，所以这里不抄死**——上一版抄的 635/218 在本轮加完四个测试文件后当场复算就成了 646/222，正是本段决定不再抄数的原因），另有 `package.json` 的脚本名、`Dockerfile:21`、`docker-compose.yml` 与 `apps/web/package.json` 里写死的包名——本站决定不改（改名要动多少处，以上面那条 `grep` 当场数的为准，别抄数）。
 
 ## 📈 Star History
 
